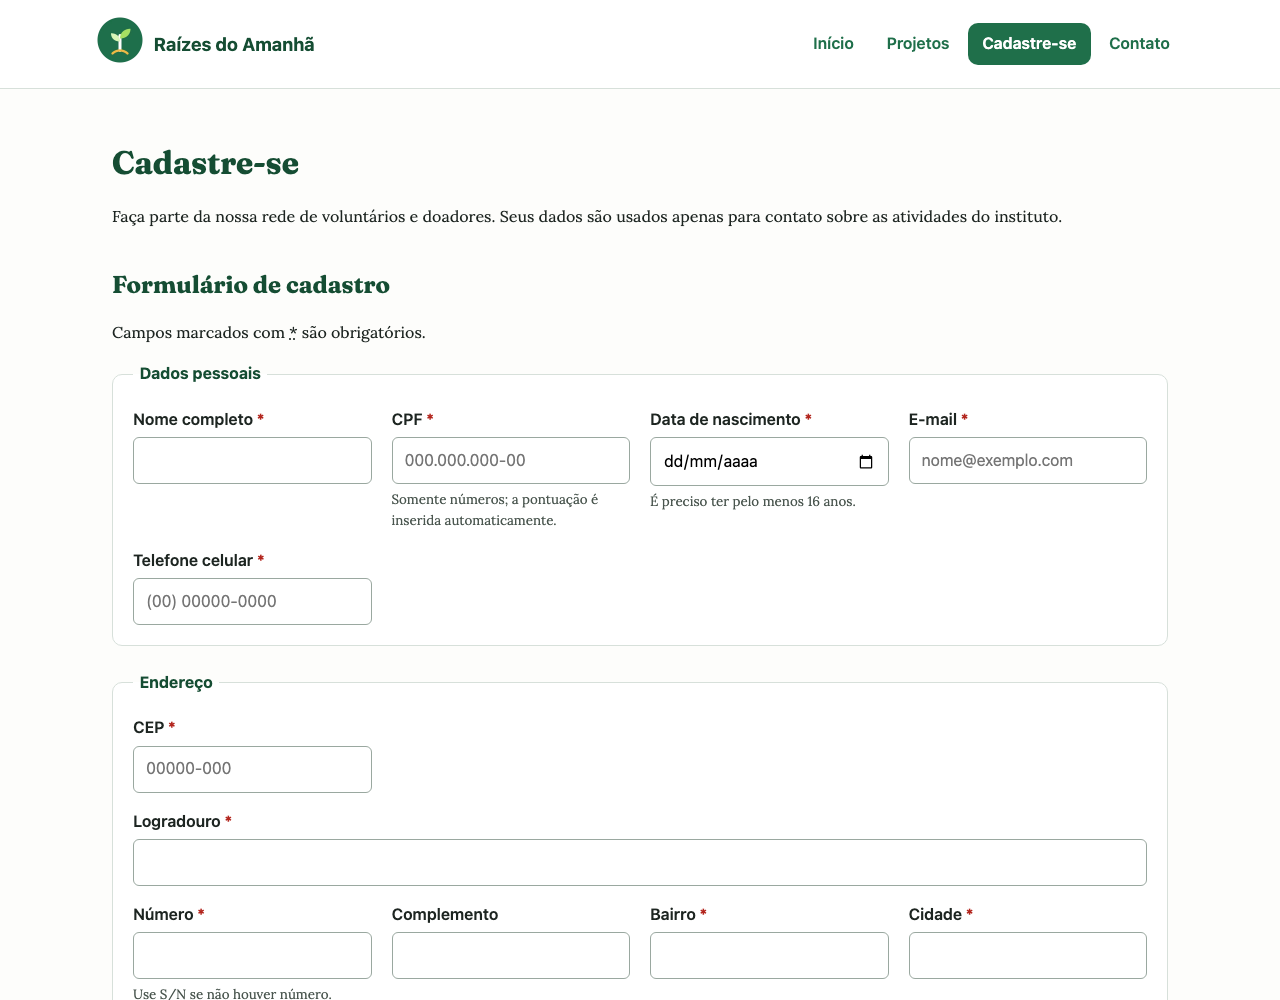
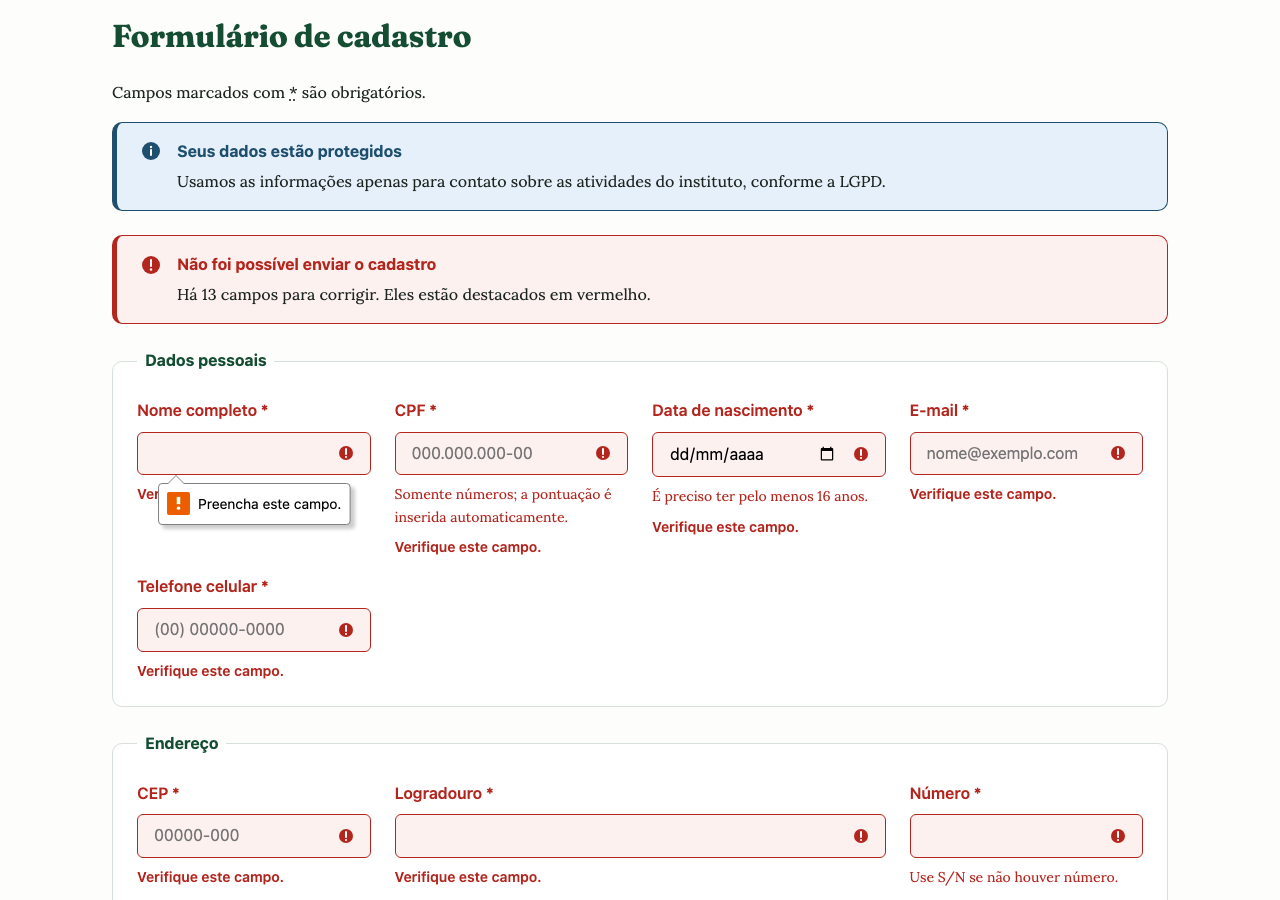
docs: atualiza README de portfólio com a Experiência Prática II
Novas seções de design system, layout, navegação e componentes de feedback; capturas de tela refeitas com o visual atual.

diff --git a/README.md b/README.md
@@ -1,6 +1,6 @@
 # Instituto Raízes do Amanhã — Plataforma Web para ONG
 
-Plataforma web para uma organização do terceiro setor, construída com **HTML5 semântico**, **CSS3** e **JavaScript vanilla**, com foco em acessibilidade, hierarquia de informação e formulário com validação nativa e máscaras de entrada.
+Plataforma web para uma organização do terceiro setor, construída com **HTML5 semântico**, **CSS3** e **JavaScript vanilla**. O projeto evolui em etapas: primeiro a estrutura acessível e o formulário com validação, depois um design system completo, layout responsivo em grid de 12 colunas, navegação interativa e componentes de feedback.
 
 **🔗 Site publicado:** https://matheuscssouza.github.io/ong-plataforma-frontend/
 
@@ -10,9 +10,9 @@ Plataforma web para uma organização do terceiro setor, construída com **HTML5
 
 ## Contexto
 
-Projeto desenvolvido na disciplina **Desenvolvimento Front-end** (Experiência Prática I) do curso de Engenharia de Software da Universidade Cruzeiro do Sul.
+Projeto desenvolvido na disciplina **Desenvolvimento Front-end** do curso de Engenharia de Software da Universidade Cruzeiro do Sul, ao longo de três Experiências Práticas.
 
-O terceiro setor brasileiro reúne mais de 820 mil organizações da sociedade civil, mas só uma parte delas tem presença digital adequada. Para ONGs, que dependem de voluntários e doações, um site claro e acessível é o que transforma um visitante em apoiador. O desafio foi projetar essa plataforma com semântica correta (essencial para SEO e leitores de tela) e com um cadastro que garanta a integridade dos dados coletados.
+O terceiro setor brasileiro reúne mais de 820 mil organizações da sociedade civil, mas só uma parte delas tem presença digital adequada. Para ONGs, que dependem de voluntários e doações, um site claro e acessível é o que transforma um visitante em apoiador. O desafio foi projetar essa plataforma com semântica correta (essencial para SEO e leitores de tela), uma interface consistente e um cadastro que garanta a integridade dos dados coletados.
 
 > O **Instituto Raízes do Amanhã** é uma organização fictícia, criada para fins acadêmicos. Endereço e contatos exibidos no site são ilustrativos.
 
@@ -21,42 +21,71 @@ O terceiro setor brasileiro reúne mais de 820 mil organizações da sociedade c
 | Página | Conteúdo |
 |---|---|
 | [`index.html`](index.html) | Apresentação da ONG: missão, visão e valores, números de impacto, formas de ajudar e contato |
-| [`projetos.html`](projetos.html) | Três projetos sociais com ficha de informações, seção de voluntariado e campanhas de doação |
-| [`cadastro.html`](cadastro.html) | Formulário de cadastro de voluntários e doadores com validações e máscaras |
+| [`projetos.html`](projetos.html) | Três projetos sociais com badges e ficha de informações, voluntariado e campanhas de doação |
+| [`cadastro.html`](cadastro.html) | Cadastro de voluntários e doadores com validação, máscaras, alertas e confirmação em modal |
+| [`componentes.html`](componentes.html) | Guia de componentes: badges, alertas, toasts, modal e botões, com as classes para reutilização |
 
 ## Destaques técnicos
 
-### Semântica e acessibilidade
+### Experiência Prática I — Estrutura semântica e formulários
+
+**Semântica e acessibilidade**
 - Estrutura com `header`, `nav`, `main`, `section`, `article`, `aside`, `footer` e `address`.
 - Um único `<h1>` por página e hierarquia de títulos sem saltos de nível.
 - Seções nomeadas com `aria-labelledby`, página atual indicada no menu com `aria-current` e link "Pular para o conteúdo".
 - Texto alternativo descritivo nas imagens informativas e `alt=""` na logo decorativa.
-- Foco visível para navegação por teclado.
 
-### Formulário de cadastro
-- Campos agrupados em `fieldset` + `legend` (dados pessoais, endereço, participação), com `fieldset` aninhados para grupos de opções.
-- Tipos adequados a cada dado: `email`, `date`, `tel`, `number`, `radio`, `checkbox`, além de `select` e `textarea`.
-- Validação nativa: `required`, `pattern`, `minlength`/`maxlength`, `min`/`max`/`step` e destaque de erro com `:user-invalid`.
-- Máscaras em JavaScript para **CPF** (`000.000.000-00`), **telefone** (`(00) 00000-0000`) e **CEP** (`00000-000`).
-- Conferência dos dígitos verificadores do CPF integrada à validação nativa com `setCustomValidity`.
+**Formulário de cadastro**
+- Campos agrupados em `fieldset` + `legend`, com tipos adequados a cada dado (`email`, `date`, `tel`, `number`, `radio`, `checkbox`).
+- Validação nativa: `required`, `pattern`, `minlength`/`maxlength`, `min`/`max`/`step`.
+- Máscaras em JavaScript para **CPF**, **telefone** e **CEP**, e conferência dos dígitos verificadores do CPF com `setCustomValidity`.
 
-### Imagens e desempenho
-- Ilustrações próprias exportadas em **WebP** e **PNG**, servidas com `<picture>` (WebP quando suportado, PNG como alternativa).
-- Imagens em 2x para telas de alta densidade, com `width` e `height` definidos para evitar deslocamento do layout.
+**Imagens**
+- Ilustrações próprias em **WebP** e **PNG**, servidas com `<picture>`, em 2x e com `width`/`height` definidos.
+
+### Experiência Prática II — Estilização e layouts
+
+**Design system** (variáveis no `:root` de [`css/style.css`](css/style.css))
+- Paleta com cores primárias, secundárias, neutras, de feedback e de categoria, todas com contraste verificado pela WCAG (texto principal com 15,4:1).
+- Escala tipográfica modular de razão 1,25 (14px a 39px) e espaçamentos em escala de 8px.
+- Nenhuma cor ou espaçamento solto no código: tudo vem das variáveis.
+
+**Layout responsivo**
+- Grid de **12 colunas** aplicado ao conteúdo e aos blocos internos, com **cinco breakpoints mobile first**: 576, 768, 992, 1200 e 1440px.
+- **Flexbox** nos componentes internos: cartões com a última linha alinhada à base, menu, grupos de botões e campos.
+
+**Navegação interativa**
+- Menu **hambúrguer** no celular e **dropdown** de Projetos no desktop, controlados por `aria-expanded`.
+- Fecha com Esc e com clique fora; sem JavaScript o menu continua visível; animações respeitam `prefers-reduced-motion`.
+
+![Menu no celular](docs/screenshots/menu-celular.png)
+
+**Estados e feedback**
+- Botões com `:hover`, `:focus-visible`, `:active` e `:disabled`.
+- Campos com sinalização de sucesso e erro (`:user-valid` / `:user-invalid`), com ícone e mensagem em texto, não só cor.
+- Componentes de feedback reutilizáveis: **badges**, **alertas** (info, sucesso, aviso e erro), **toasts** e **modal** com o `<dialog>` nativo.
+- O envio do cadastro mostra o botão desabilitado ("Enviando…"), um alerta com a contagem de campos a corrigir e um modal de confirmação.
+
+![Formulário com validação](docs/screenshots/cadastro.png)
+
+![Modal de confirmação](docs/screenshots/modal.png)
+
+**Guia de componentes**
+- A página [`componentes.html`](componentes.html) documenta cada componente com suas classes. Modal e toasts podem ser acionados só com atributos (`data-abrir-modal`, `data-toast`), permitindo que o back-end gere o HTML sem escrever JavaScript.
+
+![Guia de componentes](docs/screenshots/componentes.png)
 
 ### Qualidade
-- **W3C Markup Validator:** 0 erros e 0 avisos nas três páginas.
+- **W3C Markup Validator:** 0 erros e 0 avisos nas quatro páginas.
 - **W3C CSS Validator:** 0 erros.
-- Layout responsivo com CSS Grid e Flexbox.
+- Testes visuais em larguras de 375px a 1500px, sem rolagem horizontal.
 
 ![Página de projetos](docs/screenshots/projetos.png)
-
-![Formulário de cadastro](docs/screenshots/cadastro.png)
 
 ## Tecnologias
 
 - **HTML5** semântico
-- **CSS3**: variáveis, Grid, Flexbox, media queries
+- **CSS3**: variáveis, Grid, Flexbox, media queries, pseudo-classes de validação e animações
 - **JavaScript** (vanilla, sem dependências)
 - Fontes **Fraunces** e **Lora** (Google Fonts)
 - **Git** e **GitHub Pages**
@@ -65,15 +94,18 @@ O terceiro setor brasileiro reúne mais de 820 mil organizações da sociedade c
 
 ```
 ong-plataforma-frontend/
-├── index.html        # Página inicial (apresentação da ONG)
-├── projetos.html     # Projetos sociais, voluntariado e doações
-├── cadastro.html     # Formulário de voluntários/doadores
+├── index.html         # Página inicial (apresentação da ONG)
+├── projetos.html      # Projetos sociais, voluntariado e doações
+├── cadastro.html      # Formulário de voluntários/doadores
+├── componentes.html   # Guia de componentes
 ├── css/
-│   └── style.css     # Estilos
+│   └── style.css      # Design system, layout e componentes
 ├── js/
-│   └── script.js     # Máscaras e validações do formulário
-├── img/              # Imagens em PNG e WebP (logo também em SVG)
-└── docs/             # Respostas de cada etapa e capturas de tela
+│   ├── menu.js        # Menu hambúrguer e dropdown
+│   ├── feedback.js    # Toasts e modais reutilizáveis
+│   └── script.js      # Máscaras, validações e envio do cadastro
+├── img/               # Imagens em PNG e WebP (logo também em SVG)
+└── docs/              # Respostas de cada etapa e capturas de tela
 ```
 
 ## Como rodar localmente
@@ -95,12 +127,25 @@ e acesse http://localhost:8000.
 
 ## Etapas do desenvolvimento
 
-| Etapa | Entrega | Marco no Git |
+Cada etapa concluída tem uma tag no Git, que preserva o projeto exatamente como foi entregue.
+
+**Experiência Prática I — Estrutura semântica e formulários** (tag [`ep1-final`](https://github.com/matheuscssouza/ong-plataforma-frontend/tree/ep1-final))
+
+| Etapa | Entrega | Tag |
 |---|---|---|
-| 1. Início | Contextualização do desafio no terceiro setor | — |
-| 2. Estrutura semântica e páginas | `index.html` e `projetos.html` com hierarquia HTML5 e organização de pastas | tag [`etapa-2`](https://github.com/matheuscssouza/ong-plataforma-frontend/tree/etapa-2) |
-| 3. Formulários e cadastro | `cadastro.html` com agrupamentos, validações nativas, máscaras, imagens otimizadas e validação W3C | tag [`etapa-3`](https://github.com/matheuscssouza/ong-plataforma-frontend/tree/etapa-3) |
-| 4. Síntese e reflexão | Checklist de qualidade e autoavaliação | tag [`etapa-4`](https://github.com/matheuscssouza/ong-plataforma-frontend/tree/etapa-4) |
+| 2. Estrutura semântica e páginas | `index.html` e `projetos.html` com hierarquia HTML5 e organização de pastas | [`etapa-2`](https://github.com/matheuscssouza/ong-plataforma-frontend/tree/etapa-2) |
+| 3. Formulários e cadastro | Agrupamentos, validações nativas, máscaras, imagens otimizadas e validação W3C | [`etapa-3`](https://github.com/matheuscssouza/ong-plataforma-frontend/tree/etapa-3) |
+| 4. Síntese e reflexão | Checklist de qualidade e autoavaliação | [`etapa-4`](https://github.com/matheuscssouza/ong-plataforma-frontend/tree/etapa-4) |
+
+**Experiência Prática II — Estilização e layouts** (tag [`ep2-final`](https://github.com/matheuscssouza/ong-plataforma-frontend/tree/ep2-final))
+
+| Etapa | Entrega | Tag |
+|---|---|---|
+| 2. Design system e estruturação responsiva | Variáveis de cor, tipografia e espaçamento; grid de 12 colunas; cinco breakpoints; Flexbox | [`ep2-etapa-2`](https://github.com/matheuscssouza/ong-plataforma-frontend/tree/ep2-etapa-2) |
+| 3. Componentes visuais e navegação | Menu hambúrguer e dropdown, estados interativos, badges, alertas, toasts, modal e guia de componentes | [`ep2-etapa-3`](https://github.com/matheuscssouza/ong-plataforma-frontend/tree/ep2-etapa-3) |
+| 4. Síntese e reflexão | Revisão das implementações e autoavaliação | [`ep2-etapa-4`](https://github.com/matheuscssouza/ong-plataforma-frontend/tree/ep2-etapa-4) |
+
+**Experiência Prática III — JavaScript e interatividade:** em andamento.
 
 As respostas de cada etapa estão documentadas na pasta [`docs/`](docs).
 
@@ -108,7 +153,9 @@ As respostas de cada etapa estão documentadas na pasta [`docs/`](docs).
 
 - Semântica e hierarquia de títulos são requisitos de acessibilidade, não detalhes visuais.
 - A validação no navegador melhora a experiência e a qualidade dos dados, mas **não substitui a validação no servidor**.
-- Pensar nos requisitos de mídia (formatos, tamanhos) desde o início evita retrabalho.
+- Um design system funciona como as constantes de um backend: centraliza decisões e evita retrabalho.
+- Grid organiza as áreas da página; Flexbox organiza o conteúdo dentro de cada componente.
+- Cor nunca deve ser o único sinal: ícones e texto tornam o feedback acessível a todas as pessoas.
 
 ## Autor
 
